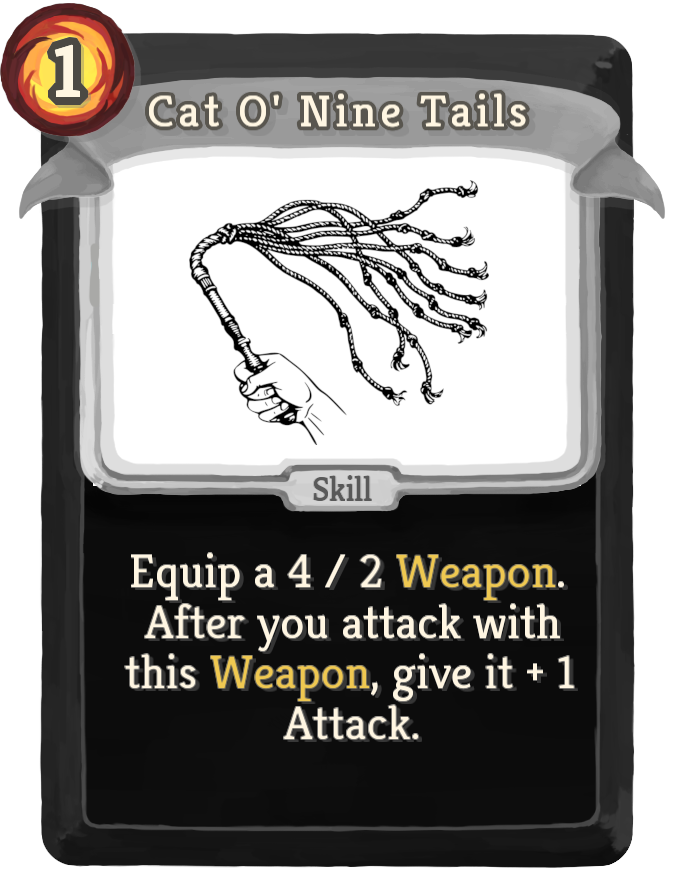
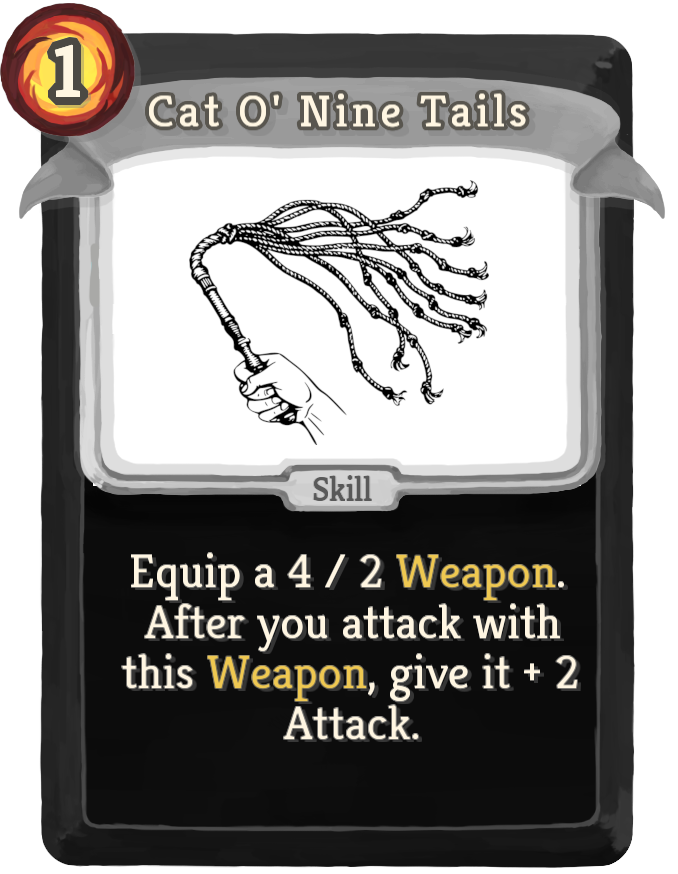
Cat O' Nine Tails description fix.

Changed region(s): [[0.1858, 0.7414, 0.8673, 0.8032]]

diff --git a/cards/cardlist.html b/cards/cardlist.html
@@ -80,7 +80,7 @@
         <td>Common</td>
         <td>Skill</td>
         <td>1</td>
-        <td>Equip a 4 / 2(3) Weapon. After you attack with this Weapon, give it + 1 Attack.</td>
+        <td>Equip a 4 / 2(3) Weapon. After you attack with this Weapon, give it + 2 Attack.</td>
     </tr>
 
     <tr>

diff --git a/cards/cardlist.md b/cards/cardlist.md
@@ -5,7 +5,7 @@
 | Strike | ![](small-card-images/Strike.png) | ![](small-card-images/StrikePlus.png) | Basic | Attack | 1 | Deal 6(9) damage. |
 | Beat Up | ![](small-card-images/BeatUp.png) | ![](small-card-images/BeatUpPlus.png) | Common | Attack | 1 | Deal 4(5) damage twice. Apply 1(2) Vulnerable. |
 | Blind Attacks | ![](small-card-images/BlindAttacks.png) | ![](small-card-images/BlindAttacksPlus.png) | Common | Attack | 1 | Deal 3(4) damage to a random enemy 3 times. |
-| Cat O' Nine Tails | ![](small-card-images/CatONineTails.png) | ![](small-card-images/CatONineTailsPlus.png) | Common | Skill | 1 | Equip a 4 / 2(3) Weapon. After you attack with this Weapon, give it + 1 Attack. |
+| Cat O' Nine Tails | ![](small-card-images/CatONineTails.png) | ![](small-card-images/CatONineTailsPlus.png) | Common | Skill | 1 | Equip a 4 / 2(3) Weapon. After you attack with this Weapon, give it + 2 Attack. |
 | Dagger | ![](small-card-images/Dagger.png) | ![](small-card-images/DaggerPlus.png) | Common | Skill | 0 | Equip a 2(3) / 2 Weapon. |
 | Delayed Pain | ![](small-card-images/DelayedPain.png) | ![](small-card-images/DelayedPainPlus.png) | Common | Skill | 1 | Gain 12(16) Block. At the end of your next turn, you are dealt 4 damage. |
 | Golden Defend | ![](small-card-images/GoldenDefend.png) | ![](small-card-images/GoldenDefendPlus.png) | Common | Skill | 1 | Gain Block equal to (0(3) +) 1% of Gold gained this run. |
